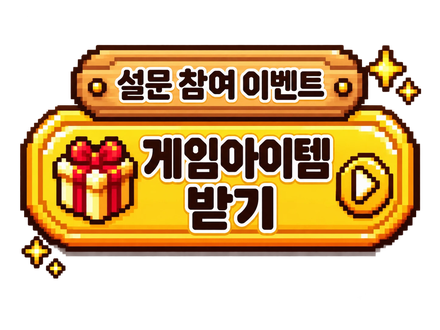
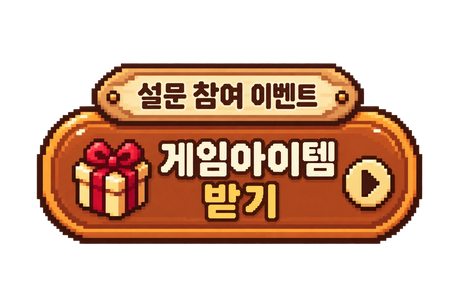
Swap survey button to the wood-toned variant and resize for its 3:2 aspect ratio

diff --git a/src/components/LandingStep.tsx b/src/components/LandingStep.tsx
@@ -67,7 +67,7 @@ export default function LandingStep({ onStart }: { onStart: () => void }) {
         rel="noopener noreferrer"
         aria-label="설문 참여 이벤트 · 게임 아이템 받기"
         className="absolute flex items-center justify-center animate-[float-updown_2.6s_ease-in-out_infinite]"
-        style={{ left: '-2.736%', top: '52.56%', width: '43.81%', height: '15.112%' }}
+        style={{ left: '-2.736%', top: '52.56%', width: '49.29%', height: '15.112%' }}
       >
         <img src={eventBtnSurvey} alt="" className="size-full object-contain" />
       </a>
